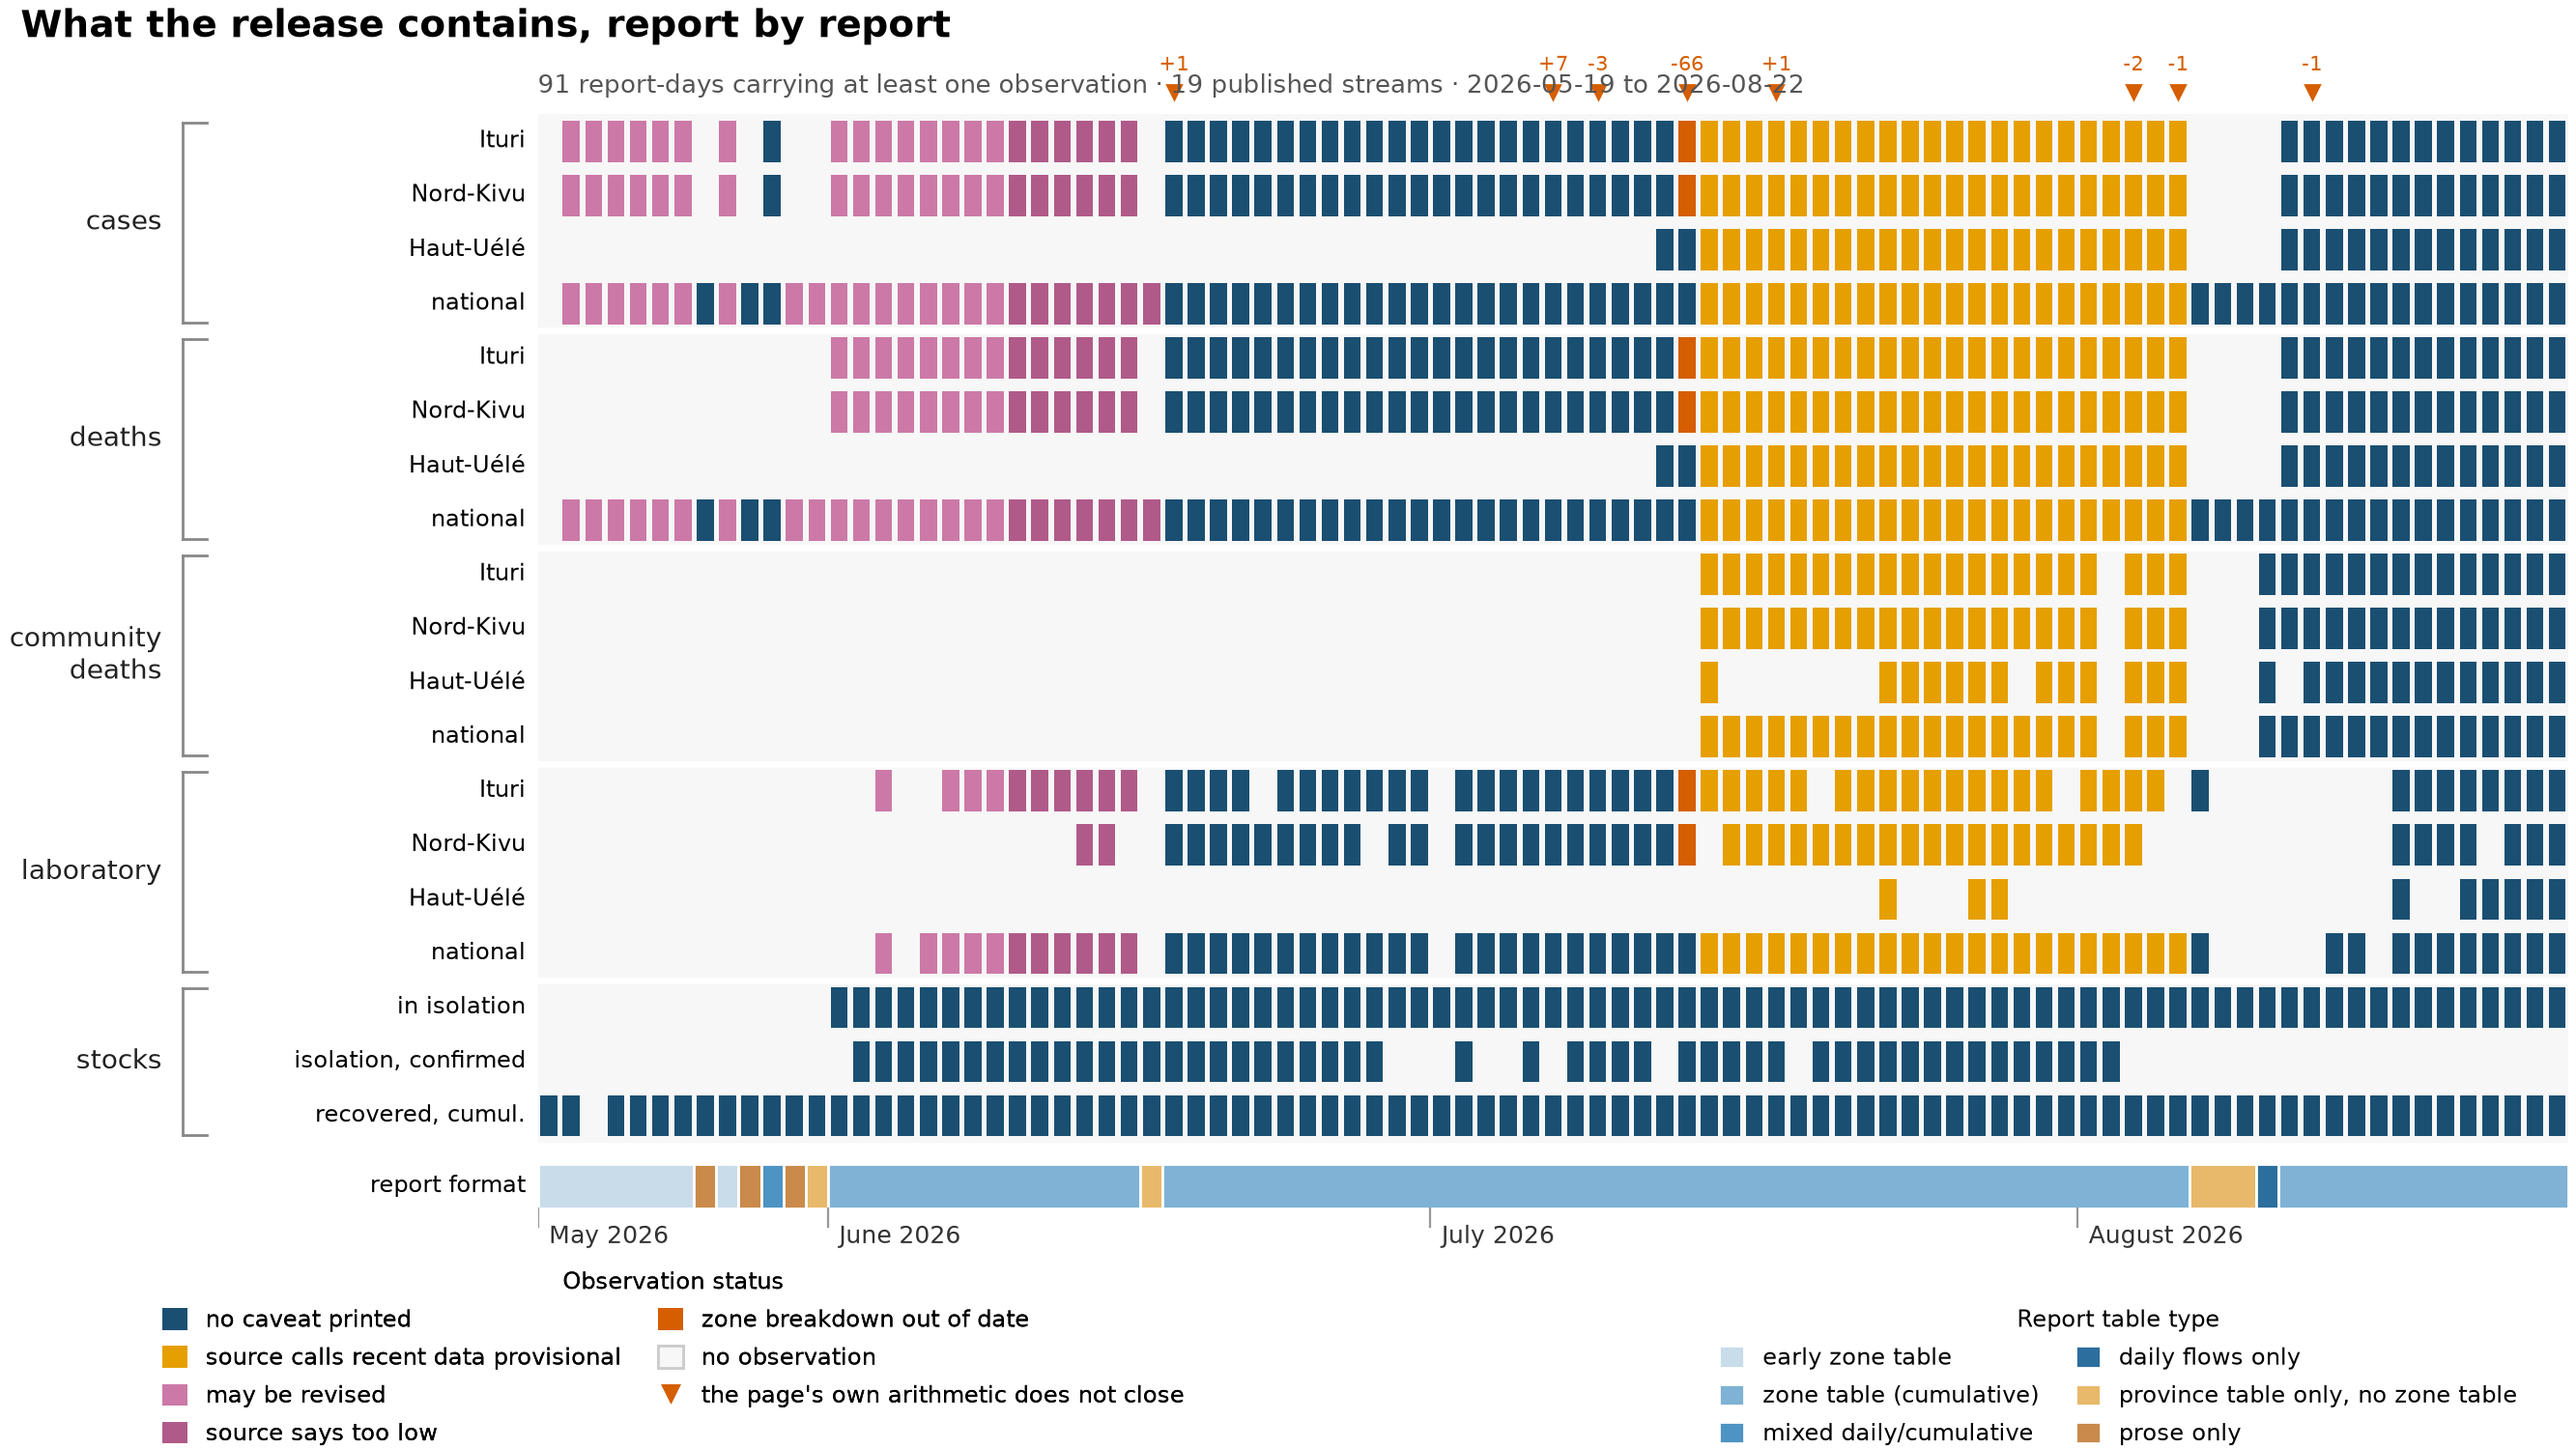
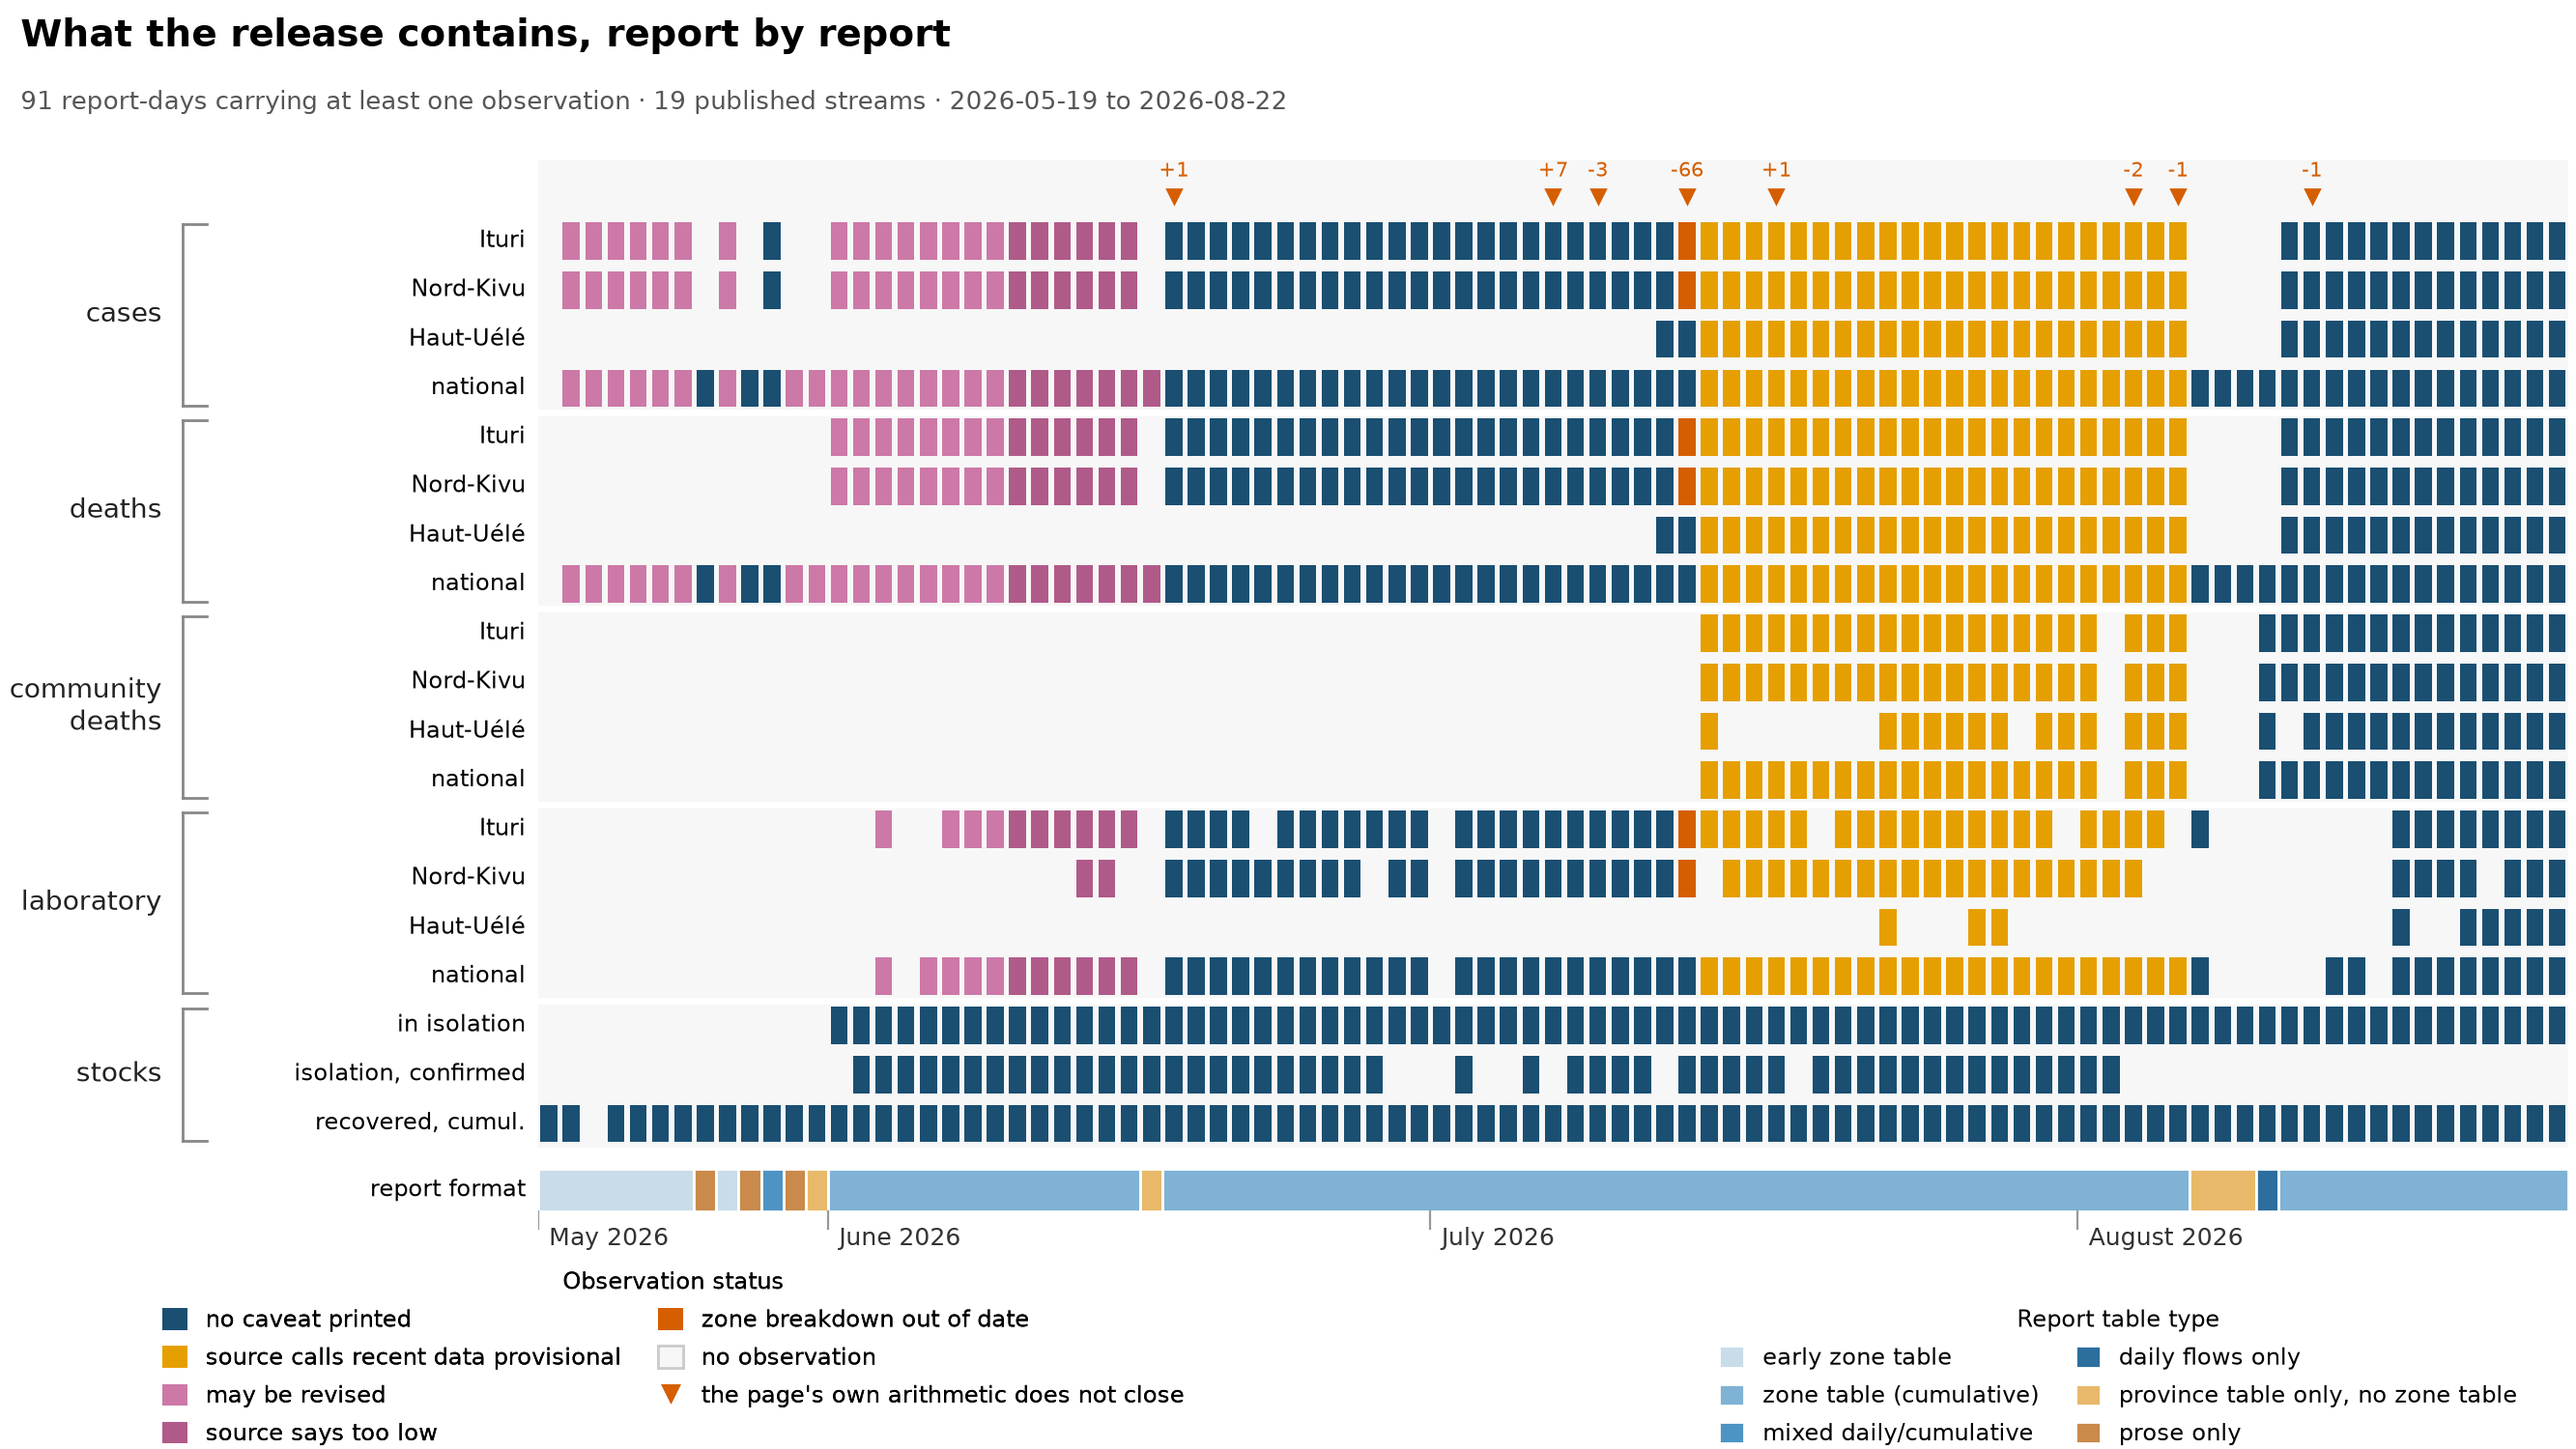
release_grid: the layout rect never constrained the top
`ConstrainedLayoutEngine.set(rect=...)` takes (left, bottom, WIDTH, HEIGHT),
not (left, bottom, right, top). Read as the latter, `(0, 0.105, 1, 0.90)`
asks for a top edge at 0.105 + 0.90 = 1.005: the legend band at the bottom
was reserved as intended, and the top was not constrained at all. The axes
ran to the very top of the canvas, and the event ticks -- drawn above the
grid in data coordinates with `clip_on=False` -- printed straight through
the subtitle, so the residuals `+1`, `-66` and `+1` sat on top of the text.

Three changes, and the figure is the only one affected: the other three
`rect` calls pass bottom=0, where height and top coincide.

  * the rect is (0, 0.105, 1, 0.79), putting the axes top at 0.895;
  * the tick band is reserved INSIDE the axes in data coordinates
    (`ylim` gains 1.15), so it is anchored to the grid it annotates rather
    than to whatever space the canvas had left;
  * the subtitle is a figure-level `text` at the suptitle's own x, reading
    as the title's second line. As an axes title it started at the grid's
    left edge, which is what put it under the ticks in the first place.

Renders byte-identically across runs.

Claude-Session: https://claude.ai/code/session_015tkmBJ2UNKTmshByKopqW2

diff --git a/scripts/plot_figures.py b/scripts/plot_figures.py
@@ -323,7 +323,13 @@ def draw_release_grid(inputs: dict[str, Path], out: Path) -> None:
             ax.axhline(y0, color="#ffffff", linewidth=2.4)
 
     ax.set_xlim(0, nx)
-    ax.set_ylim(0, ny)
+    # HEADROOM FOR THE EVENT TICKS, INSIDE THE AXES. They sit above the top
+    # row, and drawing them outside the axes (`clip_on=False`) put them in
+    # whatever space the figure had left -- which is the subtitle's. Reserving
+    # the band in DATA coordinates makes the collision impossible instead of
+    # merely unlikely, and keeps the tick row anchored to the grid it annotates
+    # rather than to the canvas.
+    ax.set_ylim(0, ny + 1.15)
     ax.set_yticks([])
     ax.set_xticks([])
     for s in ax.spines.values():
@@ -424,7 +430,14 @@ def draw_release_grid(inputs: dict[str, Path], out: Path) -> None:
     # constrained_layout does not reserve space for a figure legend, so the
     # band is carved out of the layout rect explicitly or the second row
     # falls off the page.
-    fig.get_layout_engine().set(rect=(0, 0.105, 1, 0.90))
+    # `rect` HERE IS (left, bottom, WIDTH, HEIGHT), not (left, bottom, right,
+    # top). Read as the latter, `(0, 0.105, 1, 0.90)` asks for a top edge at
+    # 0.105 + 0.90 = 1.005 -- so the bottom band was reserved as intended and
+    # the TOP was never constrained at all. That is why the event ticks sat
+    # hard against the top of the canvas and printed through anything placed
+    # up there. Height is the figure fraction between the legend band and the
+    # header: 0.105 + 0.79 puts the axes top at 0.895, clear of the subtitle.
+    fig.get_layout_engine().set(rect=(0, 0.105, 1, 0.79))
     leg1 = fig.legend(handles=handles, loc="lower left", ncol=2,
                       frameon=False, fontsize=8.5, handlelength=1.1,
                       handleheight=1.1, columnspacing=1.6, labelspacing=0.6,
@@ -452,11 +465,16 @@ def draw_release_grid(inputs: dict[str, Path], out: Path) -> None:
     leg2.get_title().set_fontsize(8.5)
     fig.add_artist(leg1)
 
+    # Title and subtitle are both FIGURE-level and left-aligned to the same
+    # x, so the subtitle reads as the title's second line. As an axes title it
+    # started at the grid's left edge instead, which put it under the event
+    # ticks rather than under the title.
     fig.suptitle("What the release contains, report by report",
-                 x=0.008, ha="left", fontsize=14, fontweight="bold")
-    ax.set_title(f"{nx} report-days carrying at least one observation · "
-                 f"{ny} published streams · {all_dates[0]} to {all_dates[-1]}",
-                 loc="left", fontsize=9.5, color="#555555", pad=8)
+                 x=0.008, y=0.988, ha="left", fontsize=14, fontweight="bold")
+    fig.text(0.008, 0.938,
+             f"{nx} report-days carrying at least one observation · "
+             f"{ny} published streams · {all_dates[0]} to {all_dates[-1]}",
+             ha="left", va="top", fontsize=9.5, color="#555555")
     out.parent.mkdir(parents=True, exist_ok=True)
     fig.savefig(out, dpi=200)
     plt.close(fig)
